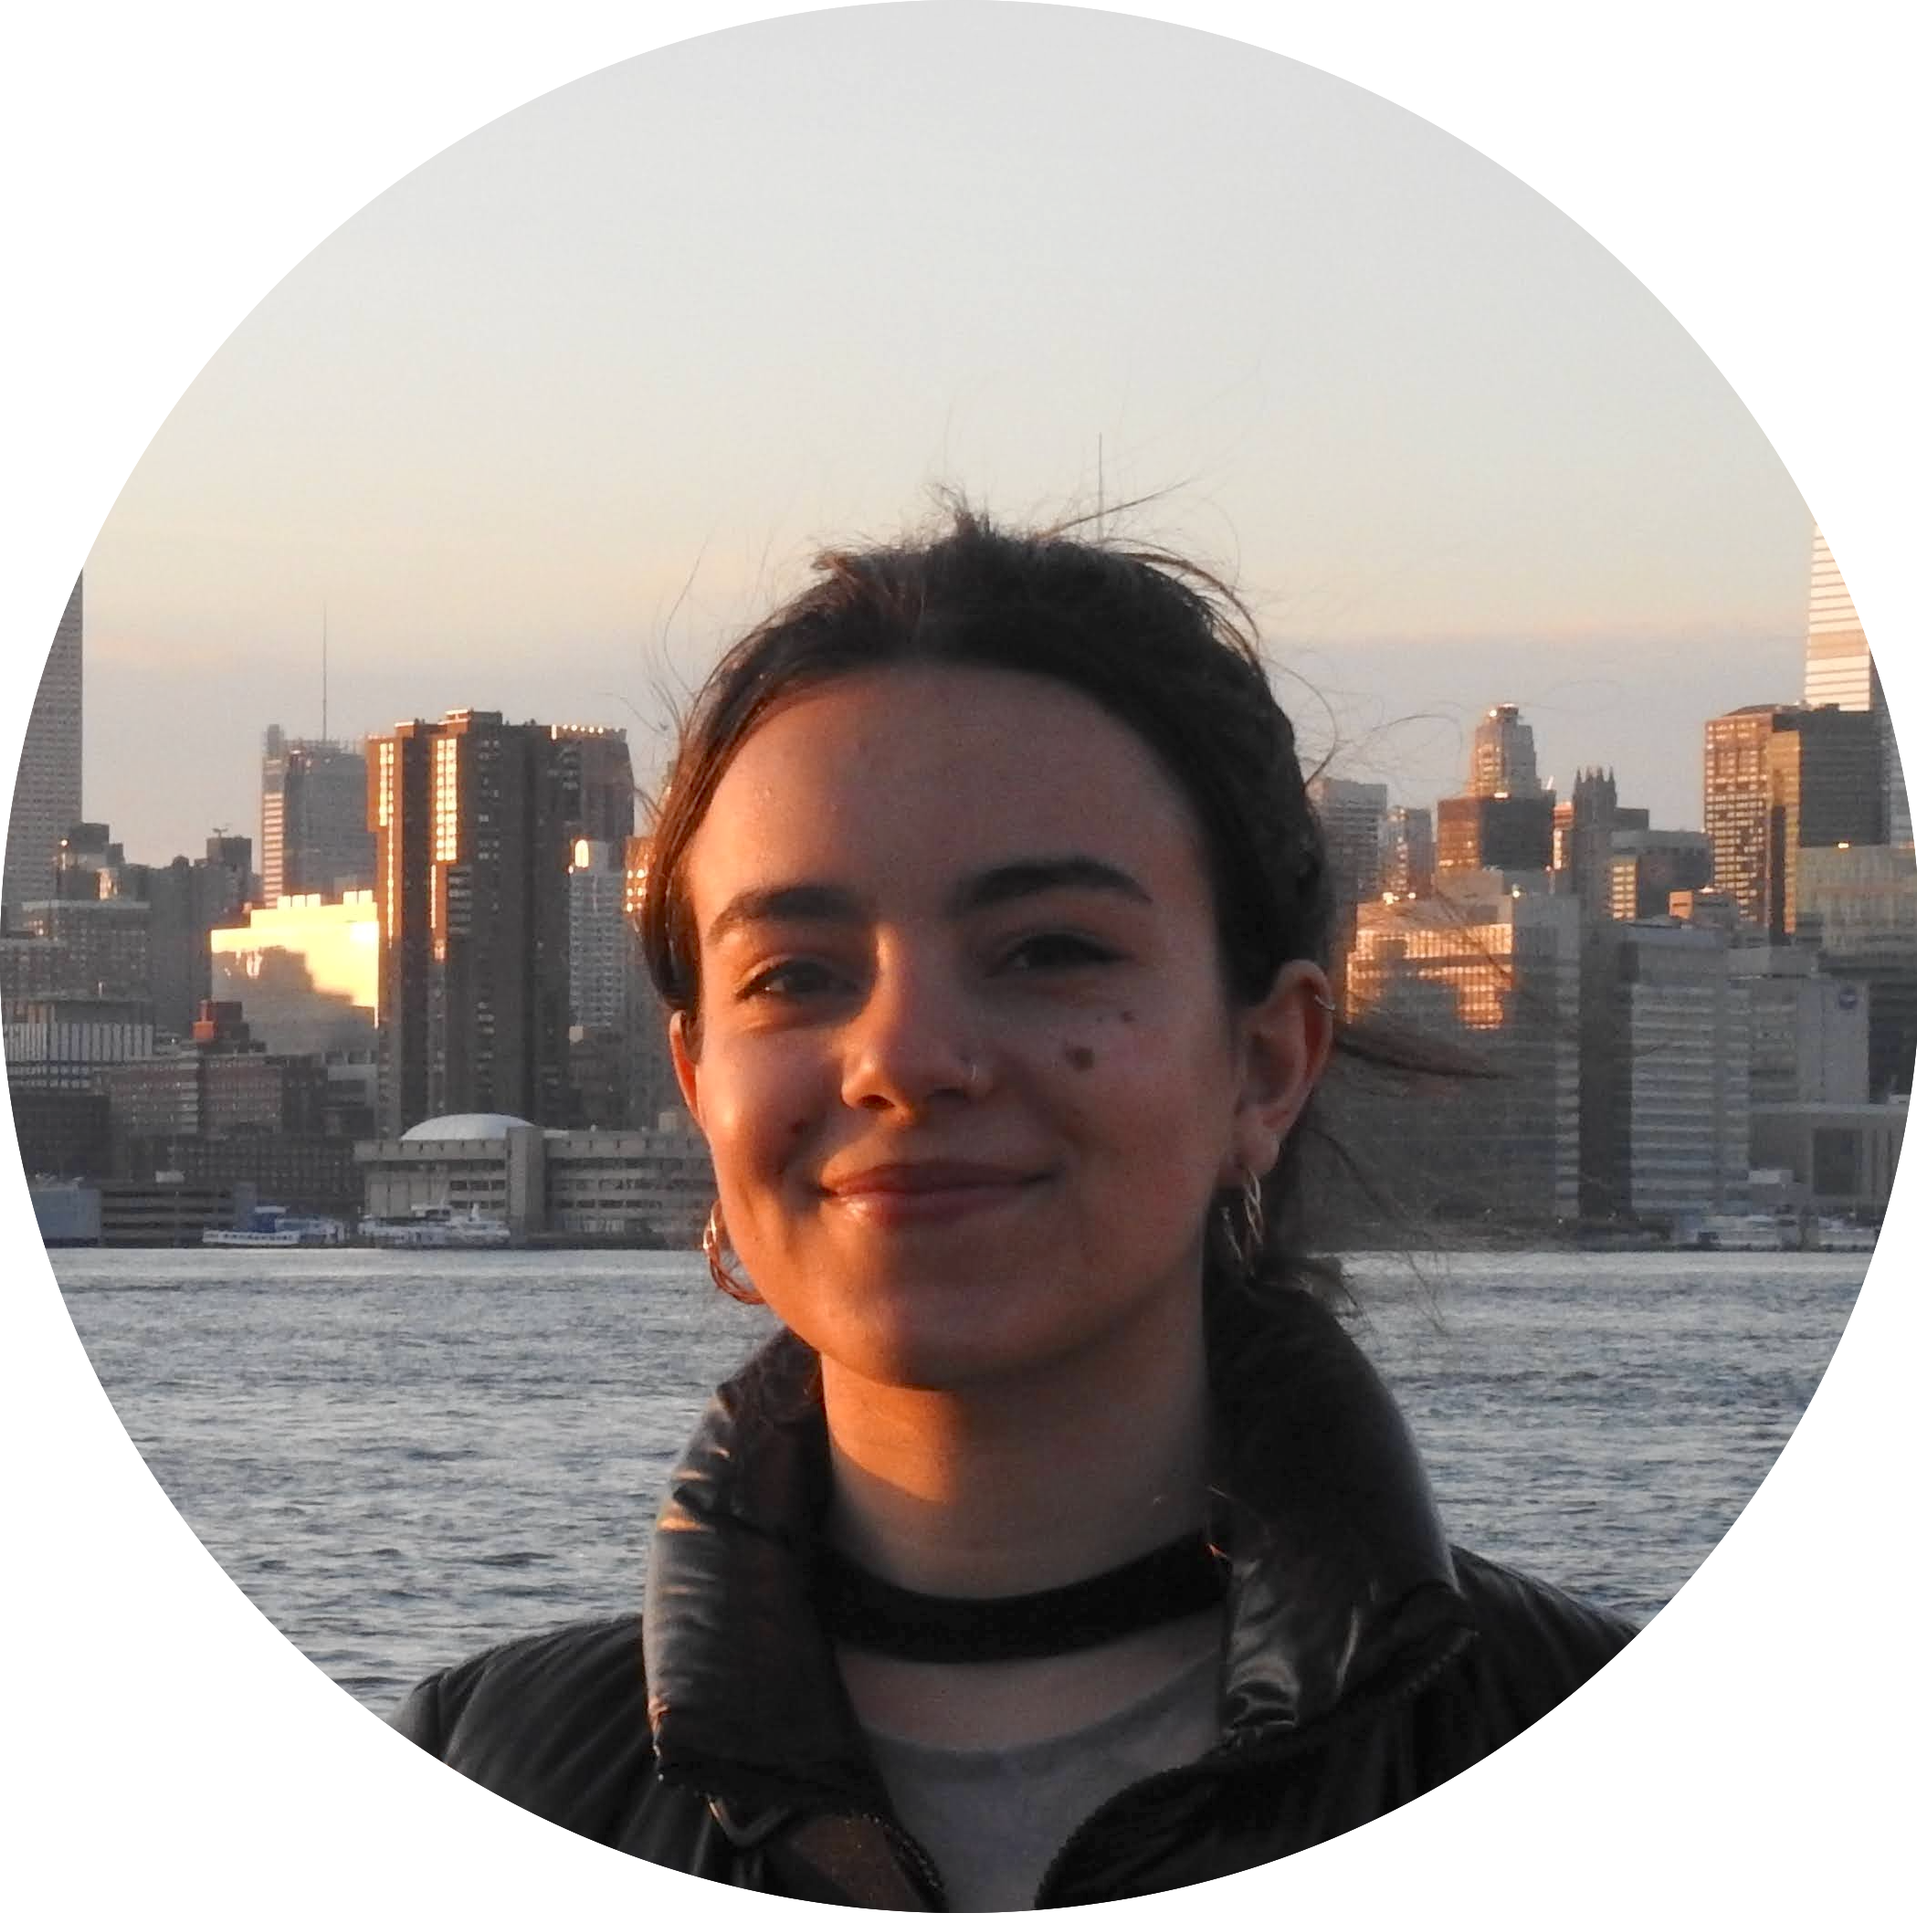
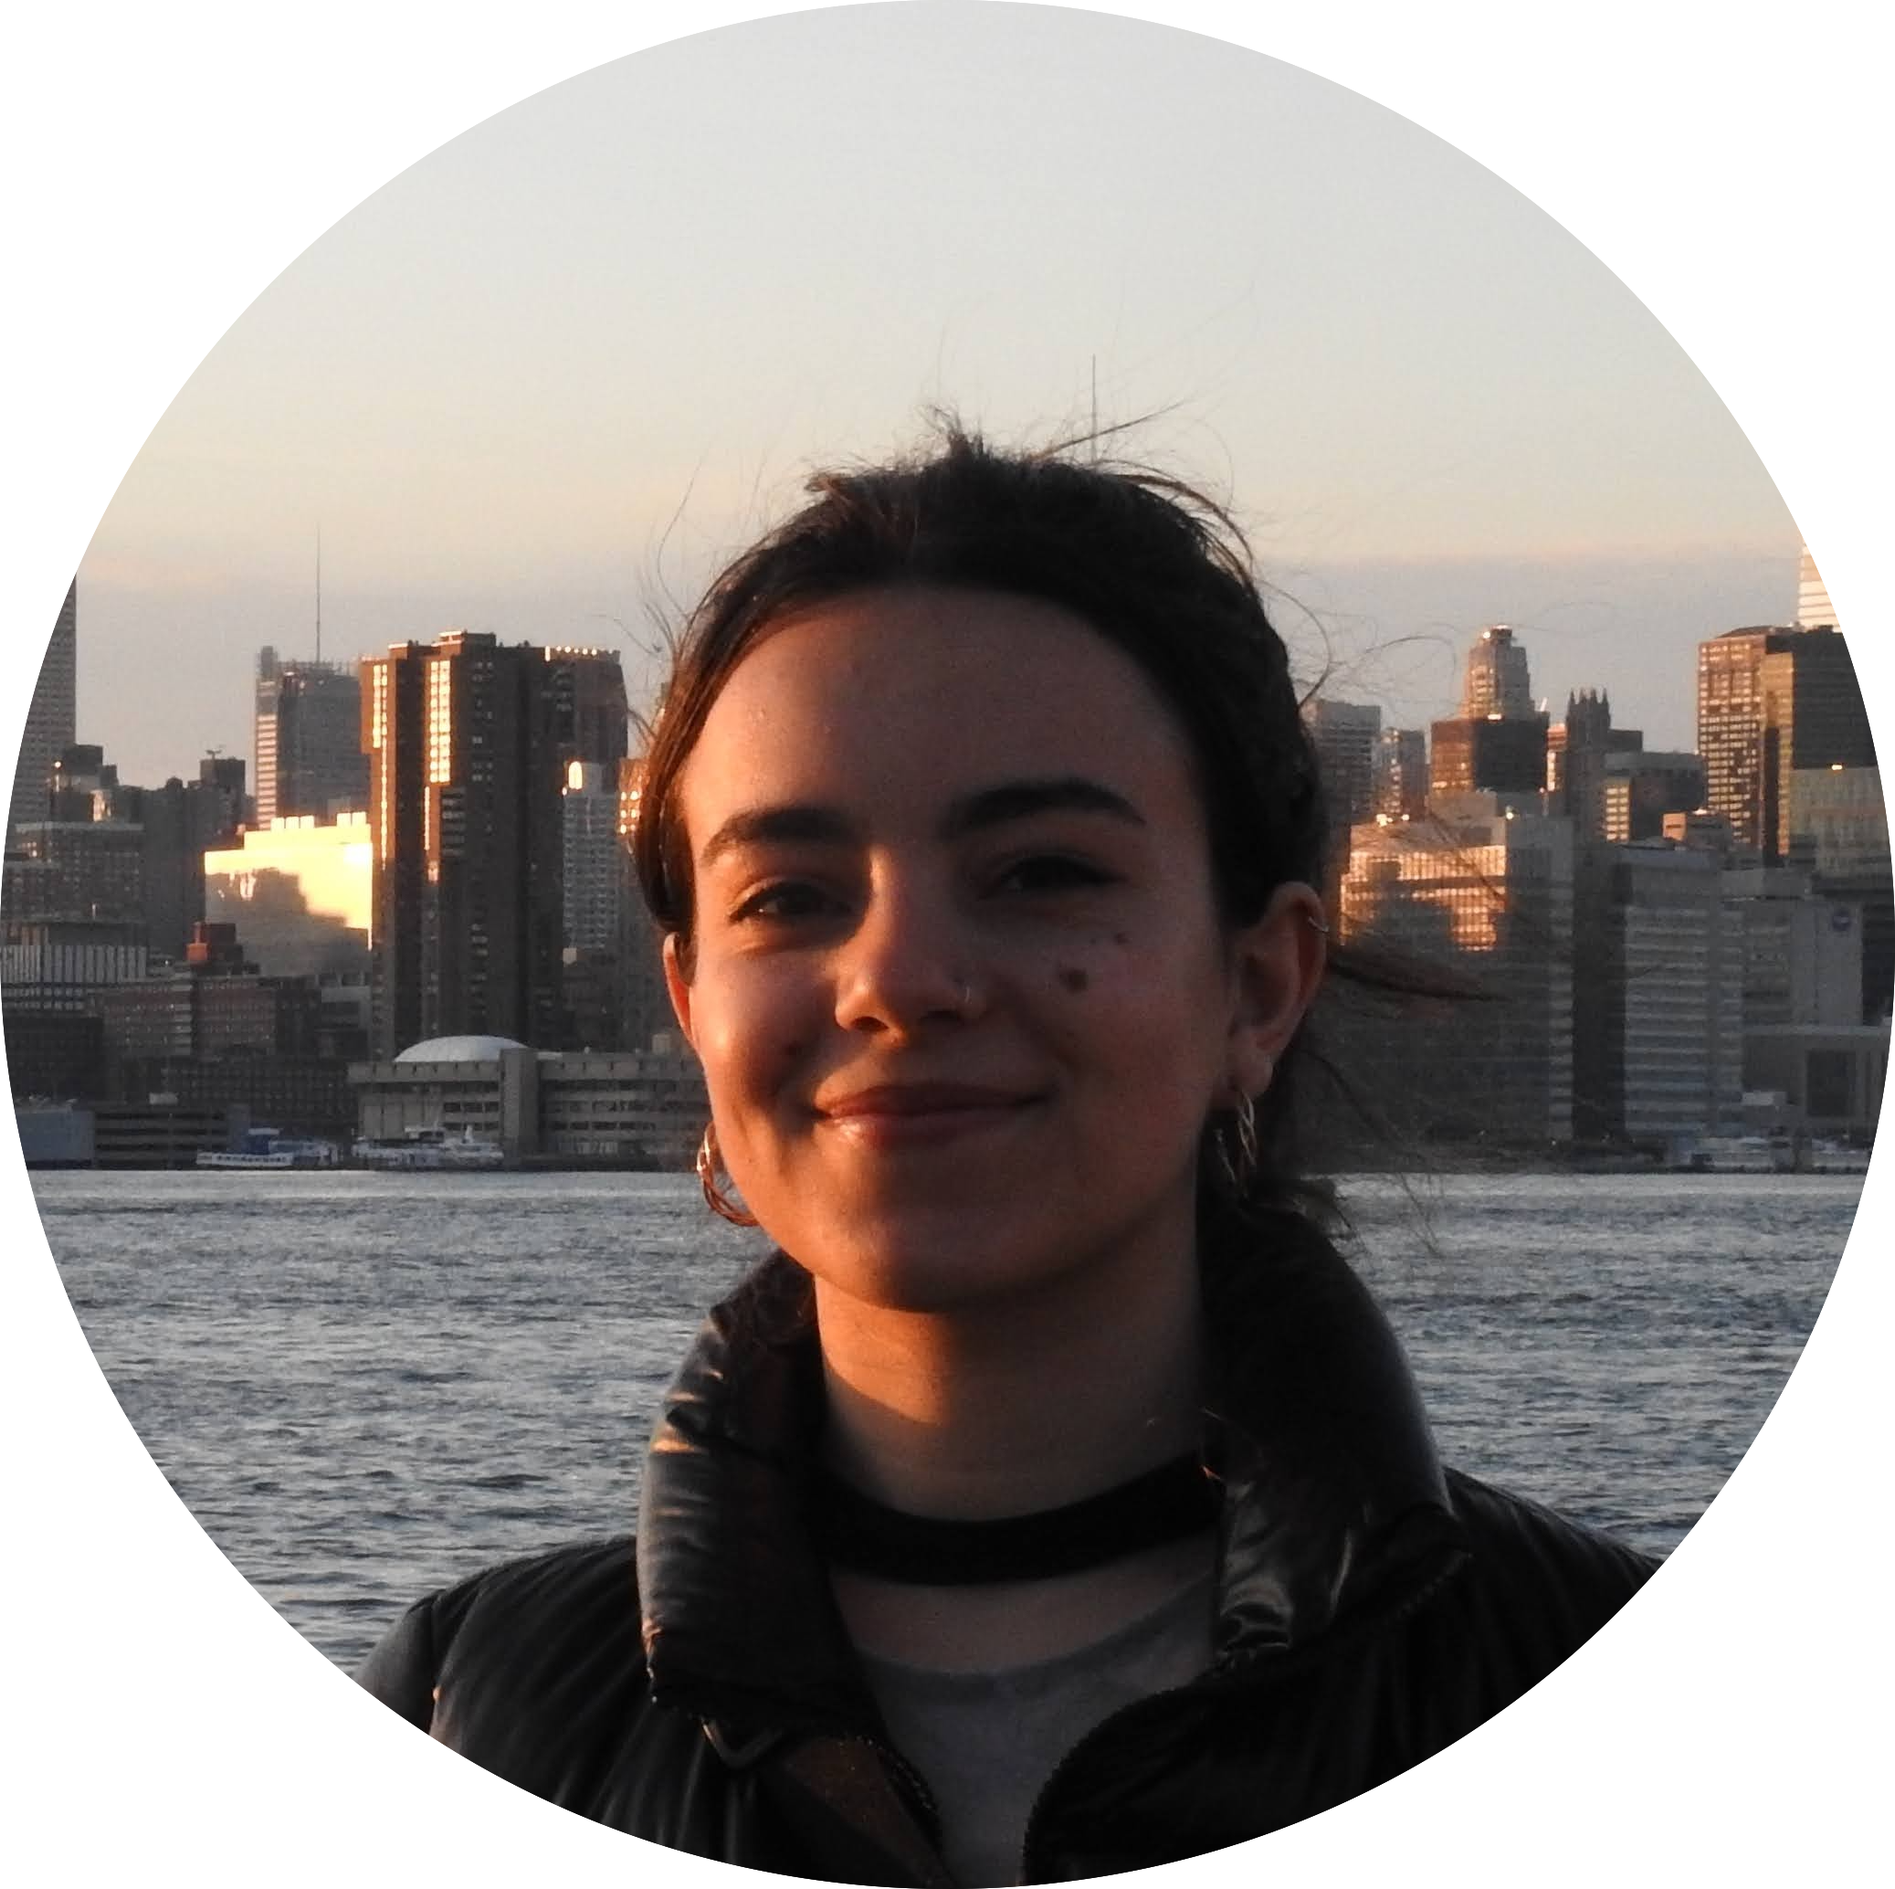
change profile photo

diff --git a/index.html b/index.html
@@ -705,7 +705,7 @@ div {
 </style></head><body><article id="704ed0c1-c016-47c8-b48c-b66373a4f0db" class="page sans"><header><h1 class="page-title"> </h1><p class="page-description"></p></header><div class="page-body"><h1 id="90e18819-e3bb-4e92-b653-e9b0741563a2" class="">Hi! My name is Maria.</h1><div id="cf6b7639-2ded-4589-bfa7-fe82dcdf28c3" class="column-list"><div id="aacc19ca-b12e-47a1-9306-16a84ee1f6ad" style="width:4.166666666666666%" class="column"><p id="126ebe6c-0b4c-4108-ac05-a06397785b80" class="">
 </p></div><div id="5cc257e6-3730-40e1-b576-6f25a9470c87" style="width:100%" class="column"><p id="eb6fc6e5-ed2c-4fff-9e4c-4c3b7dc990bd" class="">I’m a<mark class="highlight-teal"> </mark><mark class="highlight-blue"><strong>master’s student</strong></mark><mark class="highlight-pink"> </mark>at the<mark class="highlight-blue"> </mark><mark class="highlight-blue"><strong>Polytechnic University of Catalonia</strong></mark><mark class="highlight-blue">.</mark></p><div id="d3dd07fe-9a22-4153-9c09-6219e0b9e432" class="column-list"><div id="65382e29-56dd-4a33-b89e-825ee736e786" style="width:100%" class="column"><p id="85b52719-f2f8-453b-807e-fbebe7aa4dd3" class="">
 </p><figure class="block-color-teal_background callout" style="white-space:pre-wrap;display:flex" id="d1c28bb5-8025-4f7b-b700-aaecf722c184"><div style="font-size:2em"><span class="icon">🏔</span></div><div style="width:100%;text-align:center;font-size:1em"><mark class="highlight-teal"><strong><a href="mailto:maria.prat.colomer@gmail.com">Get in touch</a></strong></mark></div></figure><figure class="block-color-teal_background callout" style="white-space:pre-wrap;display:flex" id="4de4c45e-3f8e-42e2-ac39-57229cec86df"><div style="font-size:2em"><span class="icon">🌱</span></div><div style="width:100%;text-align:center"><a href="files/resume.pdf"><mark class="highlight-teal"><strong>Resume</strong></mark></a></div></figure><p id="8722333f-f6a5-4fbb-8ff5-b80da18be500" class="">
-</p></div><div id="04775411-3d1a-44c4-b52f-a258f372de49" style="width:100%" class="column"><figure id="e73737b5-2816-49d8-93db-9b939b2fb9c6" class="image" style="text-align:center"><a href="files/notion.png"><img style="width:200px" src="files/profile-1.png"/></a></figure></div><div id="6fca79a2-dd66-4d9f-add0-0e1f4b8b40b5" style="width:100%" class="column"><p id="0a49e73c-5f23-4226-ad37-266253471258" class="">
+</p></div><div id="04775411-3d1a-44c4-b52f-a258f372de49" style="width:100%" class="column"><figure id="e73737b5-2816-49d8-93db-9b939b2fb9c6" class="image" style="text-align:center"><a href="files/notion.png"><img style="width:200px" src="files/profile-2.png"/></a></figure></div><div id="6fca79a2-dd66-4d9f-add0-0e1f4b8b40b5" style="width:100%" class="column"><p id="0a49e73c-5f23-4226-ad37-266253471258" class="">
 </p><figure class="block-color-teal_background callout" style="white-space:pre-wrap;display:flex" id="373d108a-8ffc-4343-8fb4-7820782afcc8"><div style="font-size:2em"><span class="icon">🌲</span></div><div style="width:100%;text-align:center"><mark class="highlight-teal"><a href="https://scholar.google.com/citations?user=TBOTREYAAAAJ&amp;hl=en"><strong>Google Scholar</strong></a></mark></div></figure><figure class="block-color-teal_background callout" style="white-space:pre-wrap;display:flex" id="a271adbd-6450-4aa7-a9dc-62721218e706"><div style="font-size:2em"><span class="icon">🌳</span></div><div style="width:100%;text-align:center"><mark class="highlight-teal"><a href="http://github.com/mariaprat"><strong>Github</strong></a></mark></div></figure><p id="efb41af9-91b8-4bda-ad0e-96cd5c332722" class="">
 </p></div></div><blockquote id="b0750924-45ce-4002-a05c-43aa34b29441" class=""><mark class="highlight-default">My current focus is on my master’s thesis on using </mark><strong><mark class="highlight-default">physics-informed neural networks for computer-assisted proofs in partial differential equations</mark></strong><mark class="highlight-default">, with </mark><mark class="highlight-teal"><a href="https://web.math.princeton.edu/~jg27/">Javier Gómez Serrano</a></mark><mark class="highlight-default"> (Brown University) and </mark><mark class="highlight-teal"><a href="https://web.mat.upc.edu/tere.m-seara/">Tere M-Seara</a></mark><mark class="highlight-default"> (UPC).</mark></blockquote><blockquote id="1ba3f3d5-b555-4389-a24f-b947514d3fa9" class=""><mark class="highlight-default">I graduated with a bachelor’s degrees in Mathematics and in Informatics Engineering in May 2023, sponsored by the </mark><mark class="highlight-teal"><a href="https://cfis.upc.edu/ca">CFIS</a></mark><mark class="highlight-default"> program. In my last year, I was a visiting student at the NYU Center for Data Science, where I worked on my </mark><mark class="highlight-teal"><a href="https://upcommons.upc.edu/handle/2117/394100">bachelor’s thesis</a></mark><mark class="highlight-default"> with </mark><mark class="highlight-teal"><a href="https://cims.nyu.edu/~bruna/">Joan Bruna</a></mark><mark class="highlight-default"> on </mark><strong><mark class="highlight-default">multiscale modeling of a closure problem using the scattering transform</mark></strong><mark class="highlight-default">. During that time, I was affiliated with the </mark><mark class="highlight-teal"><a href="https://m2lines.github.io/">M2LInES</a></mark><mark class="highlight-default"> project.</mark></blockquote><blockquote id="77f53814-d1cd-4eec-ab9d-4123f80569dc" class=""><mark class="highlight-default">During my undergraduate studies, I was a </mark><mark class="highlight-teal"><a href="https://www.icfo.eu/studies/internships/fellowships/maria_yzuel_fellowships/">Maria Yzuel Fellow</a></mark><mark class="highlight-default"> in </mark><mark class="highlight-teal"><a href="https://www.icfo.eu/research-group/7/quantum-information/home/437/">Antonio Acín’s group</a></mark><mark class="highlight-default"> at </mark><mark class="highlight-teal"><a href="https://www.icfo.eu/">ICFO</a></mark><mark class="highlight-default"> and I had summer internships at </mark><strong><mark class="highlight-default">Google</mark></strong><mark class="highlight-default"> in 2020 and 2021.</mark></blockquote><blockquote id="8de1aa2f-0a5a-4ea0-a149-12d39cfce069" class=""><mark class="highlight-default">My central interests lie in </mark><mark class="highlight-blue"><strong>machine learning</strong></mark><mark class="highlight-default">, especially when it intersects with </mark><mark class="highlight-blue"><strong>climate science</strong></mark><mark class="highlight-default"> and </mark><mark class="highlight-blue"><strong>partial differential equations</strong></mark><mark class="highlight-default">. </mark></blockquote><figure class="block-color-blue_background callout" style="white-space:pre-wrap;display:flex" id="0315a05d-09ff-4a21-90d5-ba398b74d618"><div style="font-size:1.5em"><span class="icon-special">🦕</span></div><div style="width:100%"><mark class="highlight-blue">I’m enthusiastic about using AI for scientific discovery, and I’m looking forward to continuing my studies through a PhD.</mark></div></figure><p id="2f0b7e2f-45e4-4ac3-a729-405df4854a08" class="">
 </p><hr id="c8990cb9-36aa-47de-9f89-3c69efbfcfa1"/><h1 id="d1831e97-c529-4c50-966a-374fc7290d71" class="">📖  Publications</h1><h2 id="6430aead-4296-4bc6-a6b3-b4057cec5914" class=""><mark class="highlight-blue">2022</mark></h2><ul id="3578f7c1-ebc0-4e2c-922b-e375e6a0f1a7" class="block-color-teal bulleted-list"><li style="list-style-type:circle"><a href="https://quantum-journal.org/papers/q-2022-08-17-778/#"><strong>Three numerical approaches to find mutually unbiased bases using Bell inequalities.</strong></a><a href="https://quantum-journal.org/papers/q-2022-08-17-778/#"> </a>
